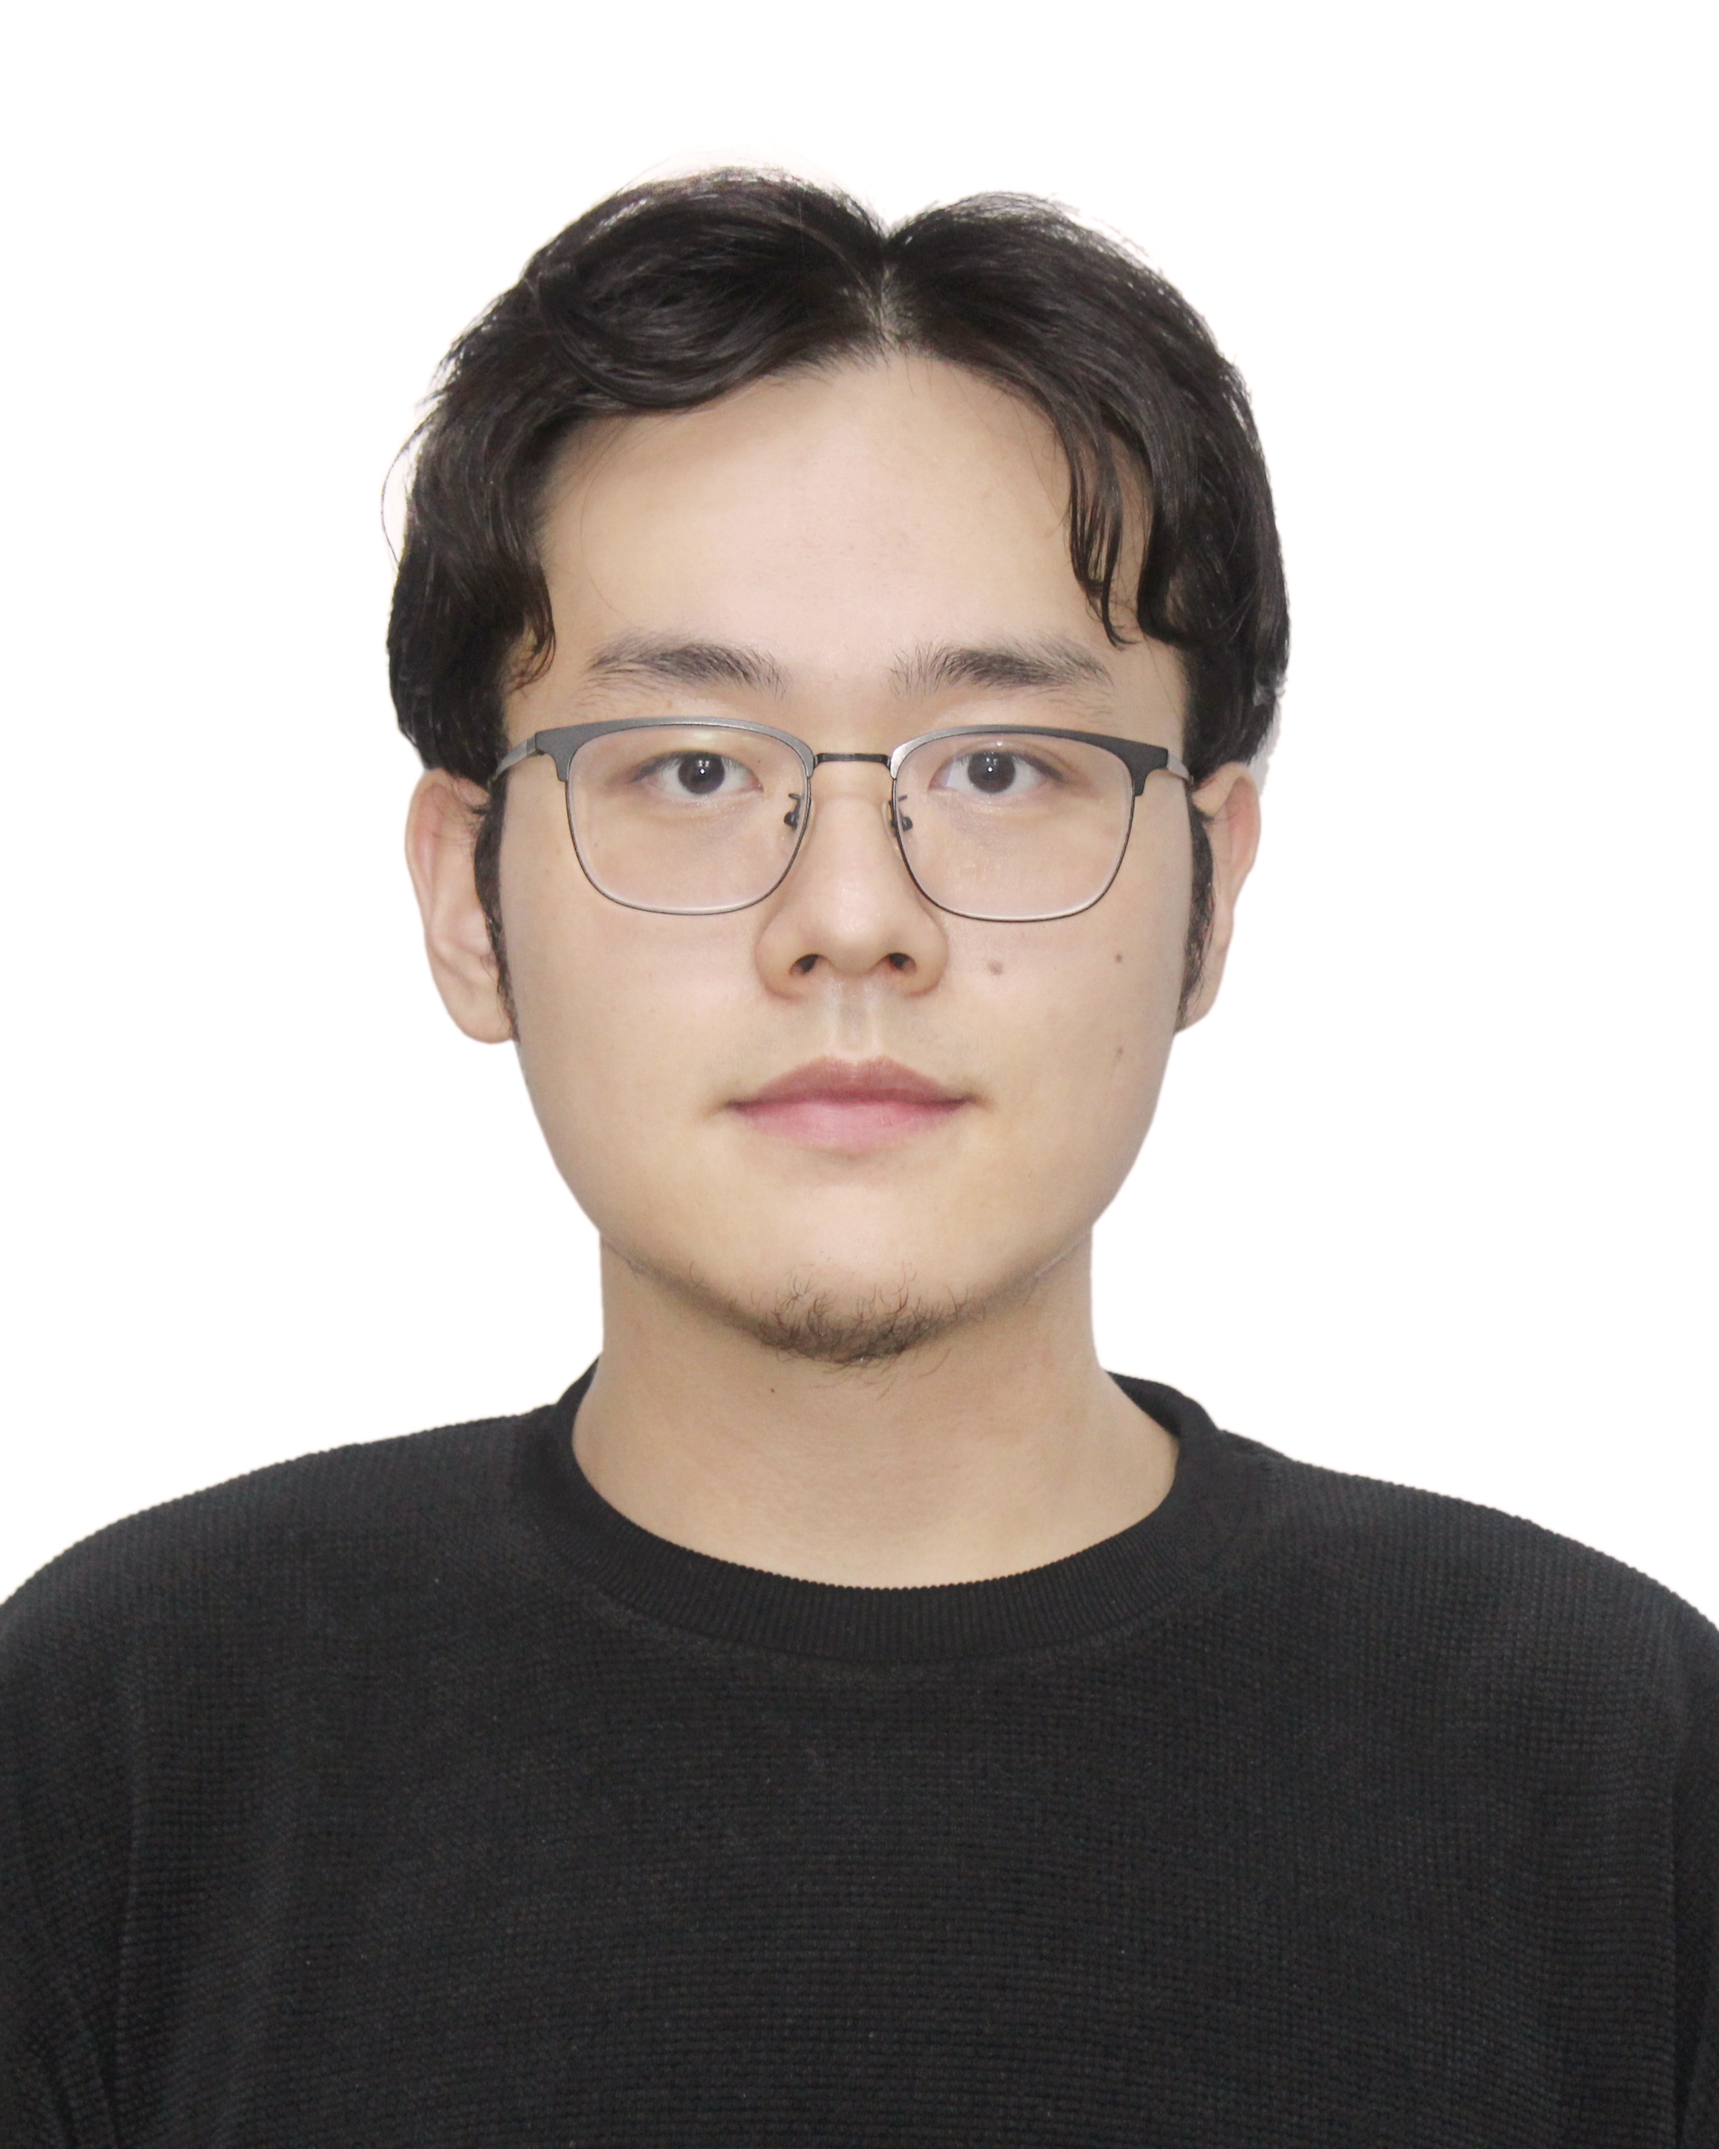
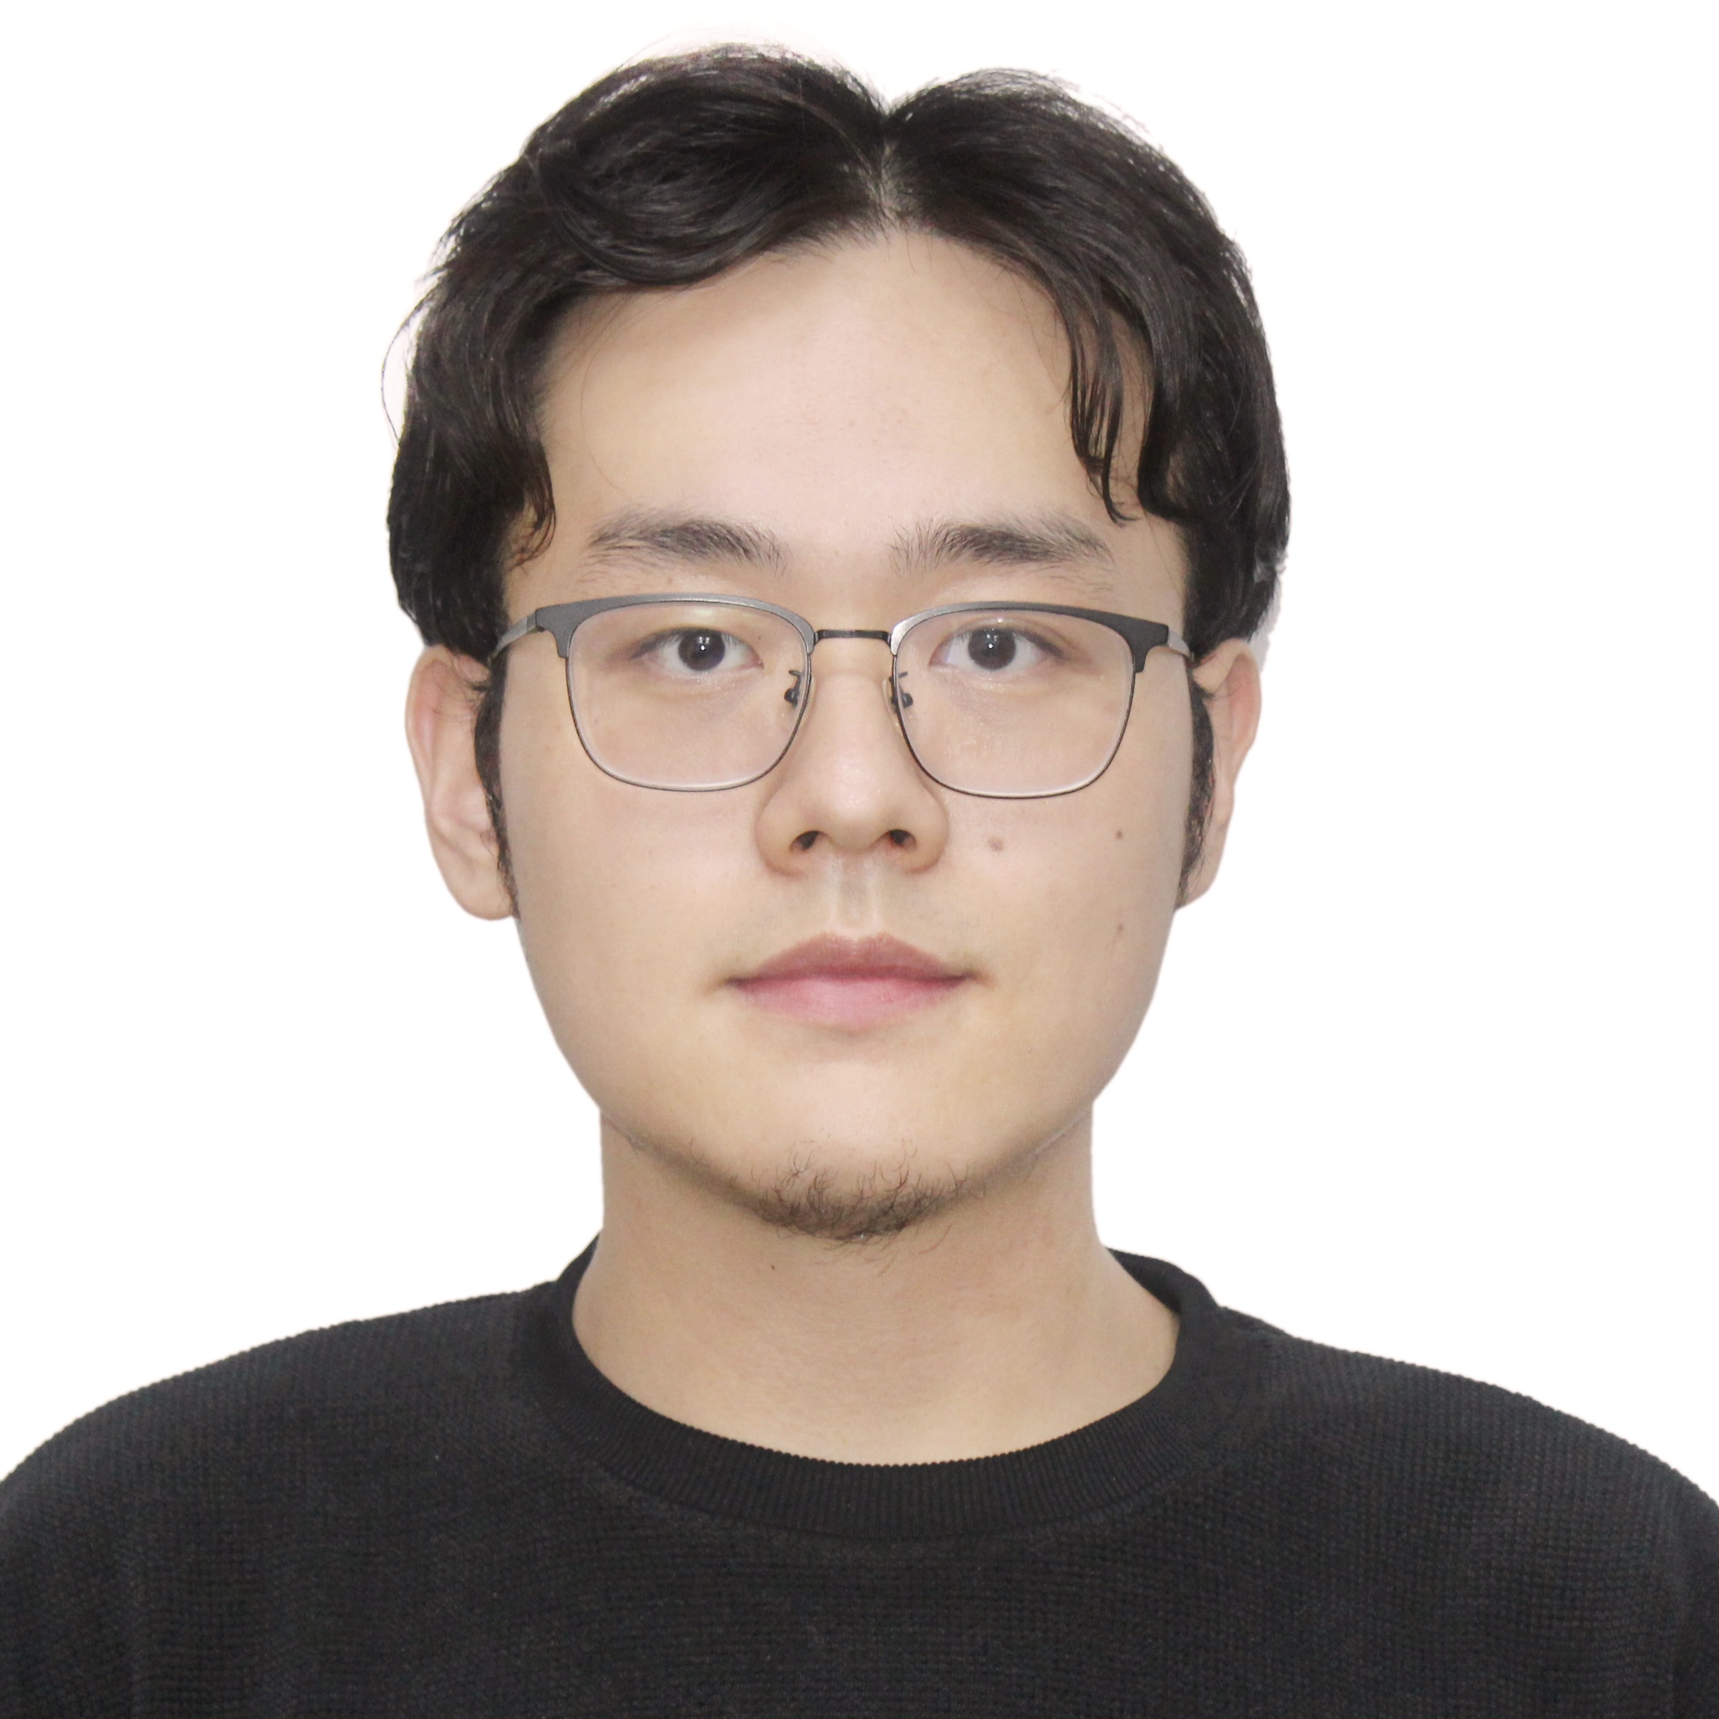
adjustment1

Changed region(s): [[0.0, 0.0, 1.0, 0.959], [0.7425, 0.2475, 0.7734, 0.2784]]

diff --git a/_includes/widgets/profile_card.html b/_includes/widgets/profile_card.html
@@ -50,7 +50,7 @@
                 <div class="row">
                     <div class="col">
                         <a class="pr-3" href="mailto:{{ site.data.profile.email | encode_email }}">
-                            <i class="fas fa-at"></i> <span class="email-text">{{ site.data.profile.email | replace: "@", "(at)" }}</span>
+                            <span class="email-text">{{ site.data.profile.email }}</span>
                         </a>
 
                         {% if site.data.profile.gscholar %}
@@ -60,37 +60,37 @@
                         {%- assign gscholar_url = 'https://scholar.google.com/citations?user=' | append: site.data.profile.gscholar -%}
                         {%- endif -%}
                         <a class="pr-3 no-break" target="_blank" href="{{ gscholar_url }}">
-                            <i class="fab fa-google-scholar"></i> Google Scholar
+                            <i class="fab fa-google-scholar"></i>
                         </a>
                         {% endif %}
                         
                         {% if site.data.profile.github %}
                         <a class="pr-3 no-break" target="_blank" href="https://github.com/{{ site.data.profile.github }}">
-                            <i class="fab fa-github"></i> GitHub
+                            <i class="fab fa-github"></i>
                         </a>
                         {% endif %}
 
                         {% if site.data.profile.wechat_qrcode %}
                         <a class="pr-3 no-break" data-toggle="modal" data-target="#modal-wechat">
-                            <i class="fab fa-weixin"></i> WeChat
+                            <i class="fab fa-weixin"></i> 
                         </a>
                         {% endif %}
 
                         {% if site.data.profile.twitter %}
                         <a class="pr-3 no-break" target="_blank" href="https://twitter.com/{{ site.data.profile.twitter }}">
-                            <i class="fab fa-twitter"></i> Twitter
+                            <i class="fab fa-twitter"></i> 
                         </a>
                         {% endif %}
 
                         {% if site.data.profile.linkedin %}
                         <a class="pr-3 no-break" target="_blank" href="https://www.linkedin.com/in/{{ site.data.profile.linkedin }}">
-                            <i class="fab fa-linkedin"></i> LinkedIn
+                            <i class="fab fa-linkedin"></i> 
                         </a>
                         {% endif %}
 
                         {% if site.data.profile.orcid %}
                         <a class="pr-3 no-break" target="_blank" href="https://orcid.org/{{ site.data.profile.orcid }}">
-                            <i class="fab fa-orcid"></i> ORCID
+                            <i class="fab fa-orcid"></i> 
                         </a>
                         {% endif %}
                     </div>

diff --git a/index.html b/index.html
@@ -3,37 +3,24 @@ layout: default
 title : Homepage
 navbar_title: Home
 ---
+{% include widgets/profile_card.html %}
 
-<div class="row">
-    <div class="col-lg-3 col-md-4">
-        {% include widgets/profile_card_mini.html %}
-    </div>
-    <div class="col-lg-9 col-md-8">
+{% if site.data.display.homepage.show_experience %}
+    {% include widgets/experience_card.html %}
+{% endif %}
 
-        {% include widgets/profile_card_bio_only.html %}
-
-        <!-- Debugging widgets -->
-        {% include widgets/debug_repo_name.html %}
-        {% include widgets/debug_url.html %}
-
-        {% if site.data.display.homepage.show_experience %}
-            {% include widgets/experience_card.html %}
-        {% endif %}
-
-        {% if site.data.display.homepage.show_news %}
-        {% assign count_news = site.news | size %}
-        {% if count_news > 0 %}
+{% if site.data.display.homepage.show_news %}
+    {% assign count_news = site.news | size %}
+    {% if count_news > 0 %}
         {% include widgets/news_card.html limit=site.data.display.homepage.num_news %}
-        {% endif %}
-        {% endif %}
+    {% endif %}
+{% endif %}
 
-        {% if site.data.display.homepage.show_selected_publications %}
-        {% assign pubs = site.publications | sort: "date" | reverse | where: "selected", true %}
-        {%
-        include widgets/publication_card.html
+{% if site.data.display.homepage.show_selected_publications %}
+    {% assign pubs = site.publications | sort: "date" | reverse | where: "selected", true %}
+    {% 
+        include widgets/publication_card.html 
         publications=pubs
         title='<i class="fas fa-star"></i> Selected Publications'
-        %}
-        {% endif %}
-    </div>
-</div>
+    %}
+{% endif %}
